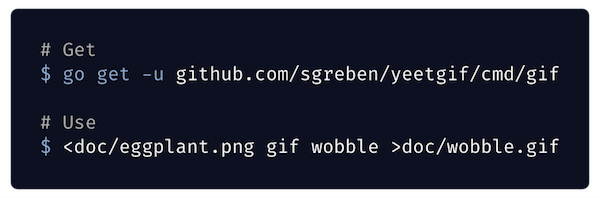
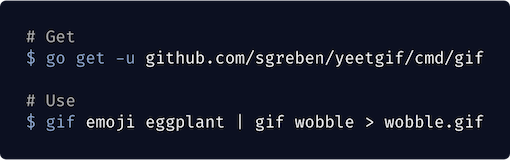
Release 1.23.5
- update docs
- faster RNG for noise, fried
- faster HSLA/RGBA conversion

Changed region(s): [[0.0, 0.0, 1.0, 1.0]]

diff --git a/pkg/imaging/adjust.go b/pkg/imaging/adjust.go
@@ -117,19 +117,25 @@ func AdjustGamma(img image.Image, gamma float64) *image.NRGBA {
 	return adjustLUT(img, lut)
 }
 
+func randomFloat32Signed(seed *int) float32 {
+	*seed *= 16807
+	return math.Float32frombits((uint32(*seed)>>9)|0x40000000) - 3.0
+}
+
 func AdjustNoiseHSL(img image.Image, hn, sn, ln float64) *image.NRGBA {
 	src := newScanner(img)
 	dst := image.NewNRGBA(image.Rect(0, 0, src.w, src.h))
 	parallel(0, src.h, func(ys <-chan int) {
+		seed := rand.Int()
 		for y := range ys {
 			i := y * dst.Stride
 			src.scan(0, y, src.w, y+1, dst.Pix[i:i+src.w*4])
 			for x := 0; x < src.w; x++ {
 				r, g, b := dst.Pix[i+0], dst.Pix[i+1], dst.Pix[i+2]
 				h, s, l, _ := HSLA(color.RGBA{R: r, G: g, B: b})
-				h += hn * (2*rand.Float64() - 1)
-				s += sn * (2*rand.Float64() - 1)
-				l += ln * (2*rand.Float64() - 1)
+				h += hn * float64(randomFloat32Signed(&seed))
+				s += sn * float64(randomFloat32Signed(&seed))
+				l += ln * float64(randomFloat32Signed(&seed))
 				c := RGBA(h, s, l, 0)
 				dst.Pix[i+0] = c.R
 				dst.Pix[i+1] = c.G
@@ -243,17 +249,18 @@ func AdjustHSL(img image.Image, weight float64, h, s, l float64) *image.NRGBA {
 	return dst
 }
 
-func AdjustHSLAFunc(img image.Image, f func(x, y int, h, s, l, a *float64)) *image.NRGBA {
+func AdjustHSLAFunc(img image.Image, f func(x, y int, h, s, l, a *float64, seed *int)) *image.NRGBA {
 	src := newScanner(img)
 	dst := image.NewNRGBA(image.Rect(0, 0, src.w, src.h))
 	parallel(0, src.h, func(ys <-chan int) {
+		seed := rand.Int()
 		for y := range ys {
 			i := y * dst.Stride
 			src.scan(0, y, src.w, y+1, dst.Pix[i:i+src.w*4])
 			for x := 0; x < src.w; x++ {
 				r, g, b, a0 := dst.Pix[i+0], dst.Pix[i+1], dst.Pix[i+2], dst.Pix[i+3]
 				h, s, l, a := HSLA(color.RGBA{R: r, G: g, B: b, A: a0})
-				f(x, y, &h, &s, &l, &a)
+				f(x, y, &h, &s, &l, &a, &seed)
 				c := RGBA(h, s, l, a)
 				dst.Pix[i+0] = c.R
 				dst.Pix[i+1] = c.G

diff --git a/pkg/imaging/hsl.go b/pkg/imaging/hsl.go
@@ -5,14 +5,36 @@ import (
 	"math"
 )
 
-func HSLA(c color.RGBA) (h, s, l, a float64) {
-	r := float64(c.R) / 255.0
-	g := float64(c.G) / 255.0
-	b := float64(c.B) / 255.0
-	a = float64(c.A) / 255.0
+var byteToFloat [256]float64
 
-	max := math.Max(math.Max(r, g), b)
-	min := math.Min(math.Min(r, g), b)
+func init() {
+	for i := 0; i <= 0xFF; i++ {
+		byteToFloat[i] = float64(i) / 0xFF
+	}
+}
+
+func HSLA(c color.RGBA) (h, s, l, a float64) {
+	r := byteToFloat[c.R]
+	g := byteToFloat[c.G]
+	b := byteToFloat[c.B]
+	a = byteToFloat[c.A]
+
+	maxByte := c.R
+	if c.G > maxByte {
+		maxByte = c.G
+	}
+	if c.B > maxByte {
+		maxByte = c.B
+	}
+	max := byteToFloat[maxByte]
+	minByte := c.R
+	if c.G < minByte {
+		minByte = c.G
+	}
+	if c.B < minByte {
+		minByte = c.B
+	}
+	min := byteToFloat[minByte]
 	l = (max + min) / 2
 	delta := max - min
 	if delta != 0 {
@@ -50,8 +72,18 @@ func RGBA(h, s, l, a float64) (c color.RGBA) {
 	case h > 1:
 		h = h - math.Floor(h)
 	}
-	s = math.Max(0, math.Min(s, 1))
-	l = math.Max(0, math.Min(l, 1))
+	switch {
+	case s < 0:
+		s = 0
+	case s > 1:
+		s = 1
+	}
+	switch {
+	case l < 0:
+		l = 0
+	case l > 1:
+		l = 1
+	}
 	c.A = uint8(255 * a)
 	if s == 0 {
 		c.R = uint8(255 * l)

diff --git a/cmd/gif/noise.go b/cmd/gif/noise.go
@@ -2,7 +2,8 @@ package main
 
 import (
 	"image"
-	"math/rand"
+
+	"github.com/sgreben/yeetgif/pkg/gifmath"
 
 	cli "github.com/jawher/mow.cli"
 	"github.com/sgreben/yeetgif/pkg/gifcmd"
@@ -32,10 +33,10 @@ func Noise(images []image.Image, noiseF, noise1F, noise2F, noise3F func(float64)
 	noise := func(i int) {
 		t := float64(i) / n
 		noise, noise1, noise2, noise3 := noiseF(t), noise1F(t), noise2F(t), noise3F(t)
-		images[i] = imaging.AdjustHSLAFunc(images[i], func(x, y int, h, s, l, a *float64) {
-			*h = *h + noise*noise1*rand.Float64()
-			*s = *s + noise*noise2*rand.Float64()
-			*l = *l + noise*noise3*rand.Float64()
+		images[i] = imaging.AdjustHSLAFunc(images[i], func(x, y int, h, s, l, a *float64, seed *int) {
+			*h = *h + noise*noise1*float64(gifmath.RandomFloat32Signed(seed))
+			*s = *s + noise*noise2*float64(gifmath.RandomFloat32Signed(seed))
+			*l = *l + noise*noise3*float64(gifmath.RandomFloat32Signed(seed))
 		})
 	}
 	parallel(len(images), noise, "noise")

diff --git a/cmd/gif/profile_enabled.go b/cmd/gif/profile_enabled.go
@@ -1,0 +1,34 @@
+// +build profile
+
+package main
+
+import (
+	"log"
+	"os"
+	"runtime/pprof"
+)
+
+var (
+	cpuProfile *os.File
+	memProfile *os.File
+)
+
+func startProfile() {
+	var err error
+	cpuProfile, err := os.Create("yeetgif-cpu.profile")
+	if err != nil {
+		log.Fatal(err)
+	}
+	pprof.StartCPUProfile(cpuProfile)
+	memProfile, err := os.Create("yeetgif-mem.profile")
+	if err != nil {
+		log.Fatal(err)
+	}
+	pprof.WriteHeapProfile(memProfile)
+}
+
+func stopProfile() {
+	pprof.StopCPUProfile()
+	cpuProfile.Close()
+	memProfile.Close()
+}

diff --git a/cmd/gif/woke.go b/cmd/gif/woke.go
@@ -64,14 +64,13 @@ func CommandWoke(cmd *cli.Cmd) {
 		alphaT := at.Value
 		alphaP := ap.Value
 		alphaV := alpha.Value
-		flare = imaging.AdjustHSLAFunc(flare, func(_, _ int, h, s, l, a *float64) {
+		flare = imaging.AdjustHSLAFunc(flare, func(_, _ int, h, s, l, a *float64, _ *int) {
 			*a = math.Pow(*a, alphaP) * alphaV
 			if *a < alphaT {
 				*a = 0
 				return
-			} else {
-				*a = (*a - alphaT) / (1.0 - alphaT)
 			}
+			*a = (*a - alphaT) / (1.0 - alphaT)
 			*l = (*l) * lightness.Value
 			if changeHue {
 				*h += hue.Value

diff --git a/pkg/gifmath/math.go b/pkg/gifmath/math.go
@@ -1,10 +1,23 @@
 package gifmath
 
-import "math/big"
+import (
+	"math"
+	"math/big"
+)
 
 func LCM(a, b int) int {
 	var an, bn, z big.Int
 	an.SetInt64(int64(a))
 	bn.SetInt64(int64(b))
 	return int(z.Mul(z.Div(&bn, z.GCD(nil, nil, &an, &bn)), &an).Int64())
+}
+
+func RandomFloat32Signed(seed *int) float32 {
+	*seed *= 16807
+	return math.Float32frombits((uint32(*seed)>>9)|0x40000000) - 3.0
+}
+
+func RandomFloat32Unsigned(seed *int) float32 {
+	*seed *= 16807
+	return math.Float32frombits((uint32(*seed)>>9)|0x3f800000) - 1.0
 }

diff --git a/cmd/gif/erase.go b/cmd/gif/erase.go
@@ -36,7 +36,7 @@ func Erase(images []image.Image, x, y int, t, wh, ws, wl float64) {
 		sample := images[i].At(x, y)
 		r, g, b, _ := sample.RGBA()
 		sh, ss, sl, _ := imaging.HSLA(color.RGBA{uint8(r), uint8(g), uint8(b), 0})
-		images[i] = imaging.AdjustHSLAFunc(images[i], func(_, _ int, h, s, l, a *float64) {
+		images[i] = imaging.AdjustHSLAFunc(images[i], func(_, _ int, h, s, l, a *float64, _ *int) {
 			dist := math.Sqrt((wh*sqr(*h-sh) + ws*sqr(*s-ss) + wl*sqr(*l-sl)) / (wh + ws + wl))
 			if dist < t/2 {
 				*a = 0

diff --git a/cmd/gif/scan.go b/cmd/gif/scan.go
@@ -65,7 +65,7 @@ func Scan(images []image.Image, f func(x, y, t float64, h, s, l, a *float64)) {
 		b := images[i].Bounds()
 		bw := float64(b.Dx())
 		bh := float64(b.Dy())
-		images[i] = imaging.AdjustHSLAFunc(images[i], func(x, y int, h, s, l, a *float64) {
+		images[i] = imaging.AdjustHSLAFunc(images[i], func(x, y int, h, s, l, a *float64, _ *int) {
 			xf := float64(x-b.Min.X) / bw
 			yf := float64(y-b.Min.Y) / bh
 			f(xf, yf, t, h, s, l, a)

diff --git a/cmd/gif/main.go b/cmd/gif/main.go
@@ -84,6 +84,8 @@ var (
 )
 
 func main() {
+	startProfile()
+	defer stopProfile()
 	app.VarOpt("d delay-ms", &delay, "Frame delay in milliseconds")
 	app.Before = func() {
 		config.Raw = *raw

diff --git a/cmd/gif/profile_disabled.go b/cmd/gif/profile_disabled.go
@@ -1,0 +1,6 @@
+// +build !profile
+
+package main
+
+func startProfile() {}
+func stopProfile()  {}

diff --git a/README.md b/README.md
@@ -50,14 +50,14 @@ Either from [the releases page](https://github.com/sgreben/yeetgif/releases/late
 
 ```sh
 # Linux
-curl -L https://github.com/sgreben/yeetgif/releases/download/1.23.4/gif_1.23.4_linux_x86_64.tar.gz | tar xz
+curl -L https://github.com/sgreben/yeetgif/releases/download/1.23.5/gif_1.23.5_linux_x86_64.tar.gz | tar xz
 
 # OS X
-curl -L https://github.com/sgreben/yeetgif/releases/download/1.23.4/gif_1.23.4_osx_x86_64.tar.gz | tar xz
+curl -L https://github.com/sgreben/yeetgif/releases/download/1.23.5/gif_1.23.5_osx_x86_64.tar.gz | tar xz
 
 # Windows
-curl -LO https://github.com/sgreben/yeetgif/releases/download/1.23.4/gif_1.23.4_windows_x86_64.zip
-unzip gif_1.23.4_windows_x86_64.zip
+curl -LO https://github.com/sgreben/yeetgif/releases/download/1.23.5/gif_1.23.5_windows_x86_64.zip
+unzip gif_1.23.5_windows_x86_64.zip
 ```
 
 **NOTE**: To use the `optimize` command, you'll also need the [`giflossy`](https://github.com/kornelski/giflossy) fork of `gifsicle` installed:
@@ -338,7 +338,7 @@ Options:
   -x                (default [1])
   -y                (default [1])
   -m, --mode        one of [mul add sub pow sin] (default add)
-  -c, --center      (default 0.2183000524405257)
+  -c, --center      (default 0.7680623638504513)
 ```
 
 ### resize
